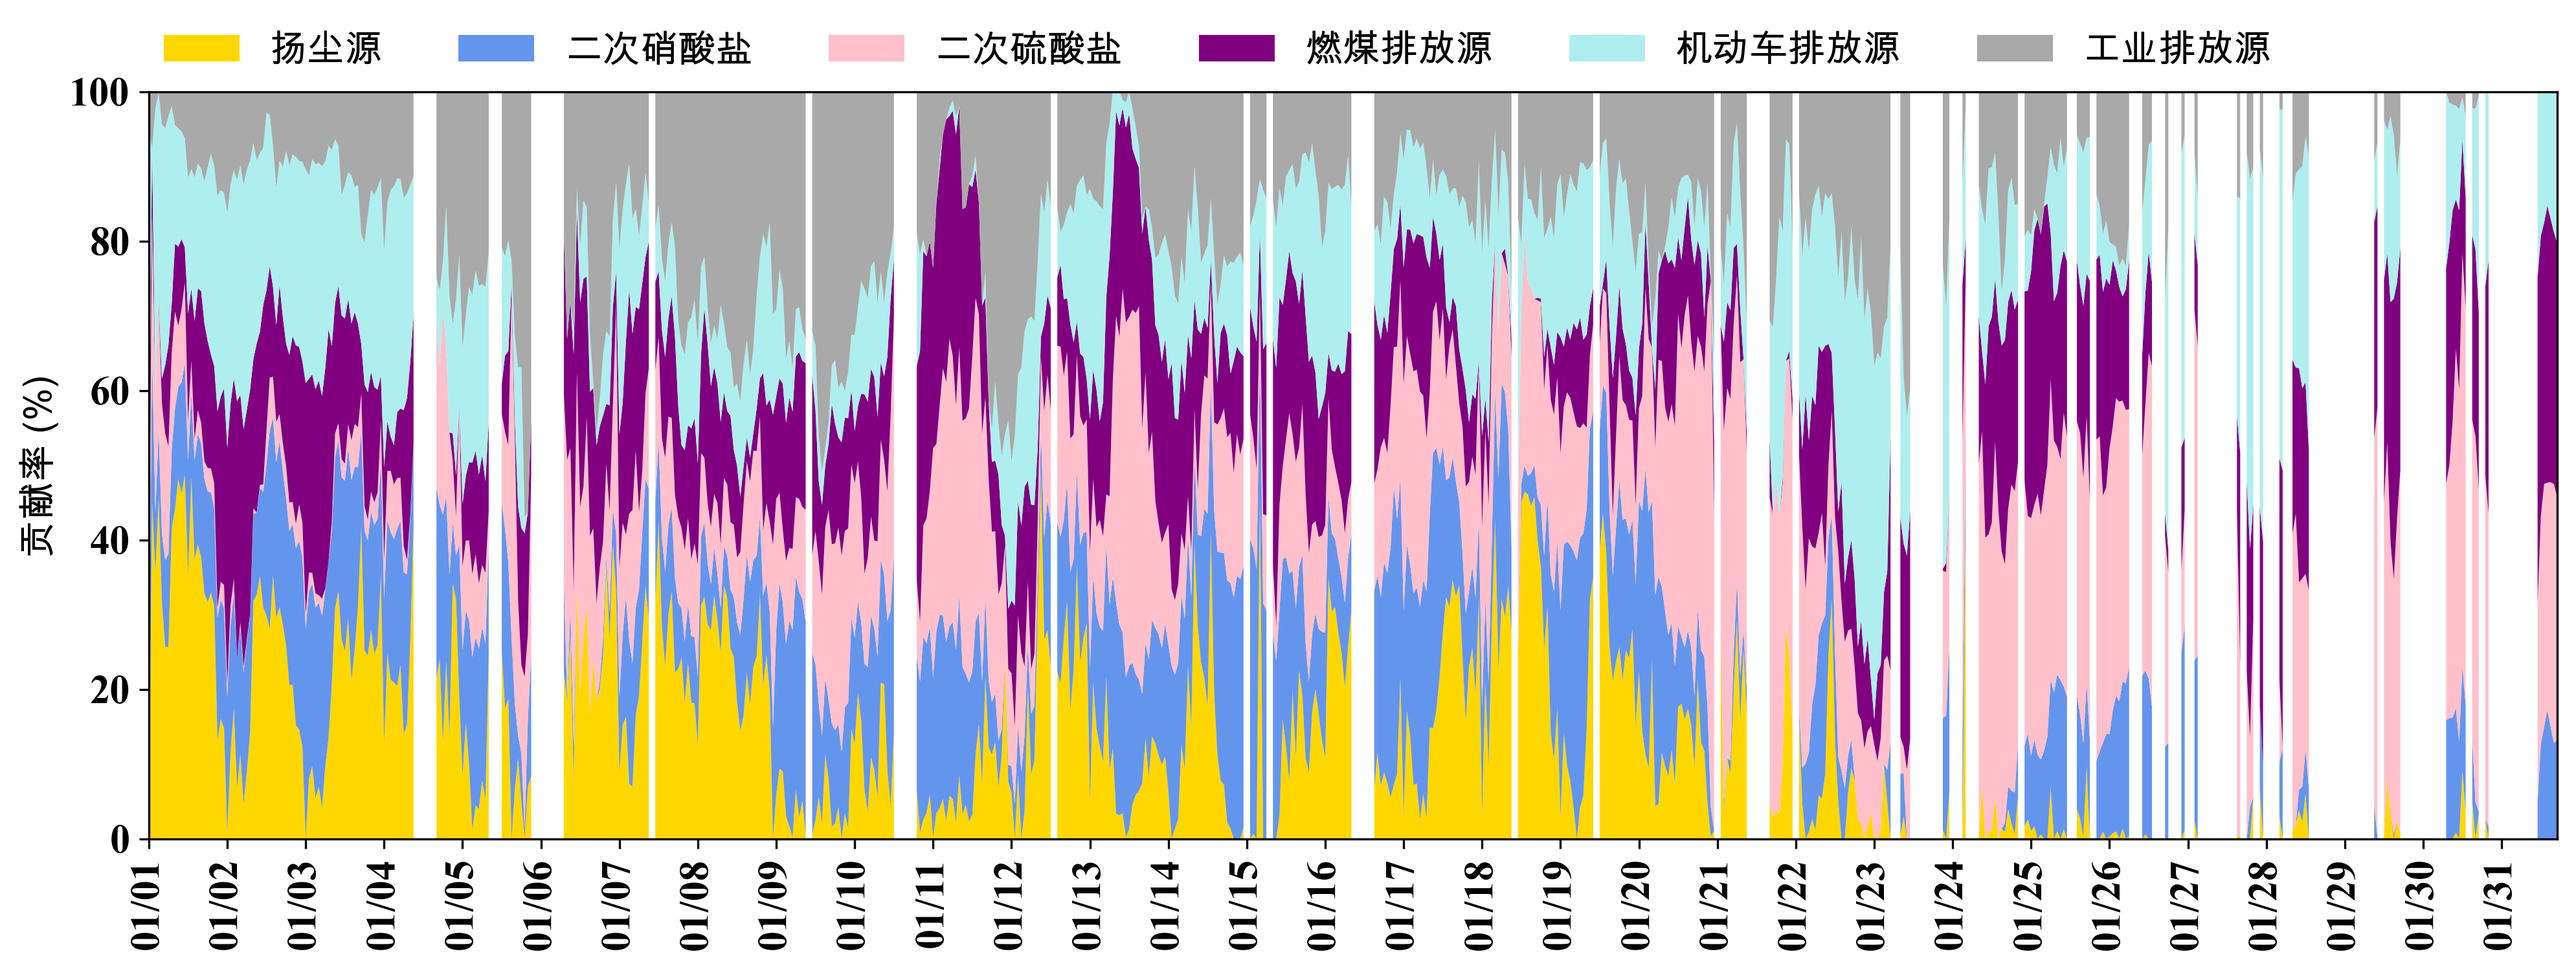
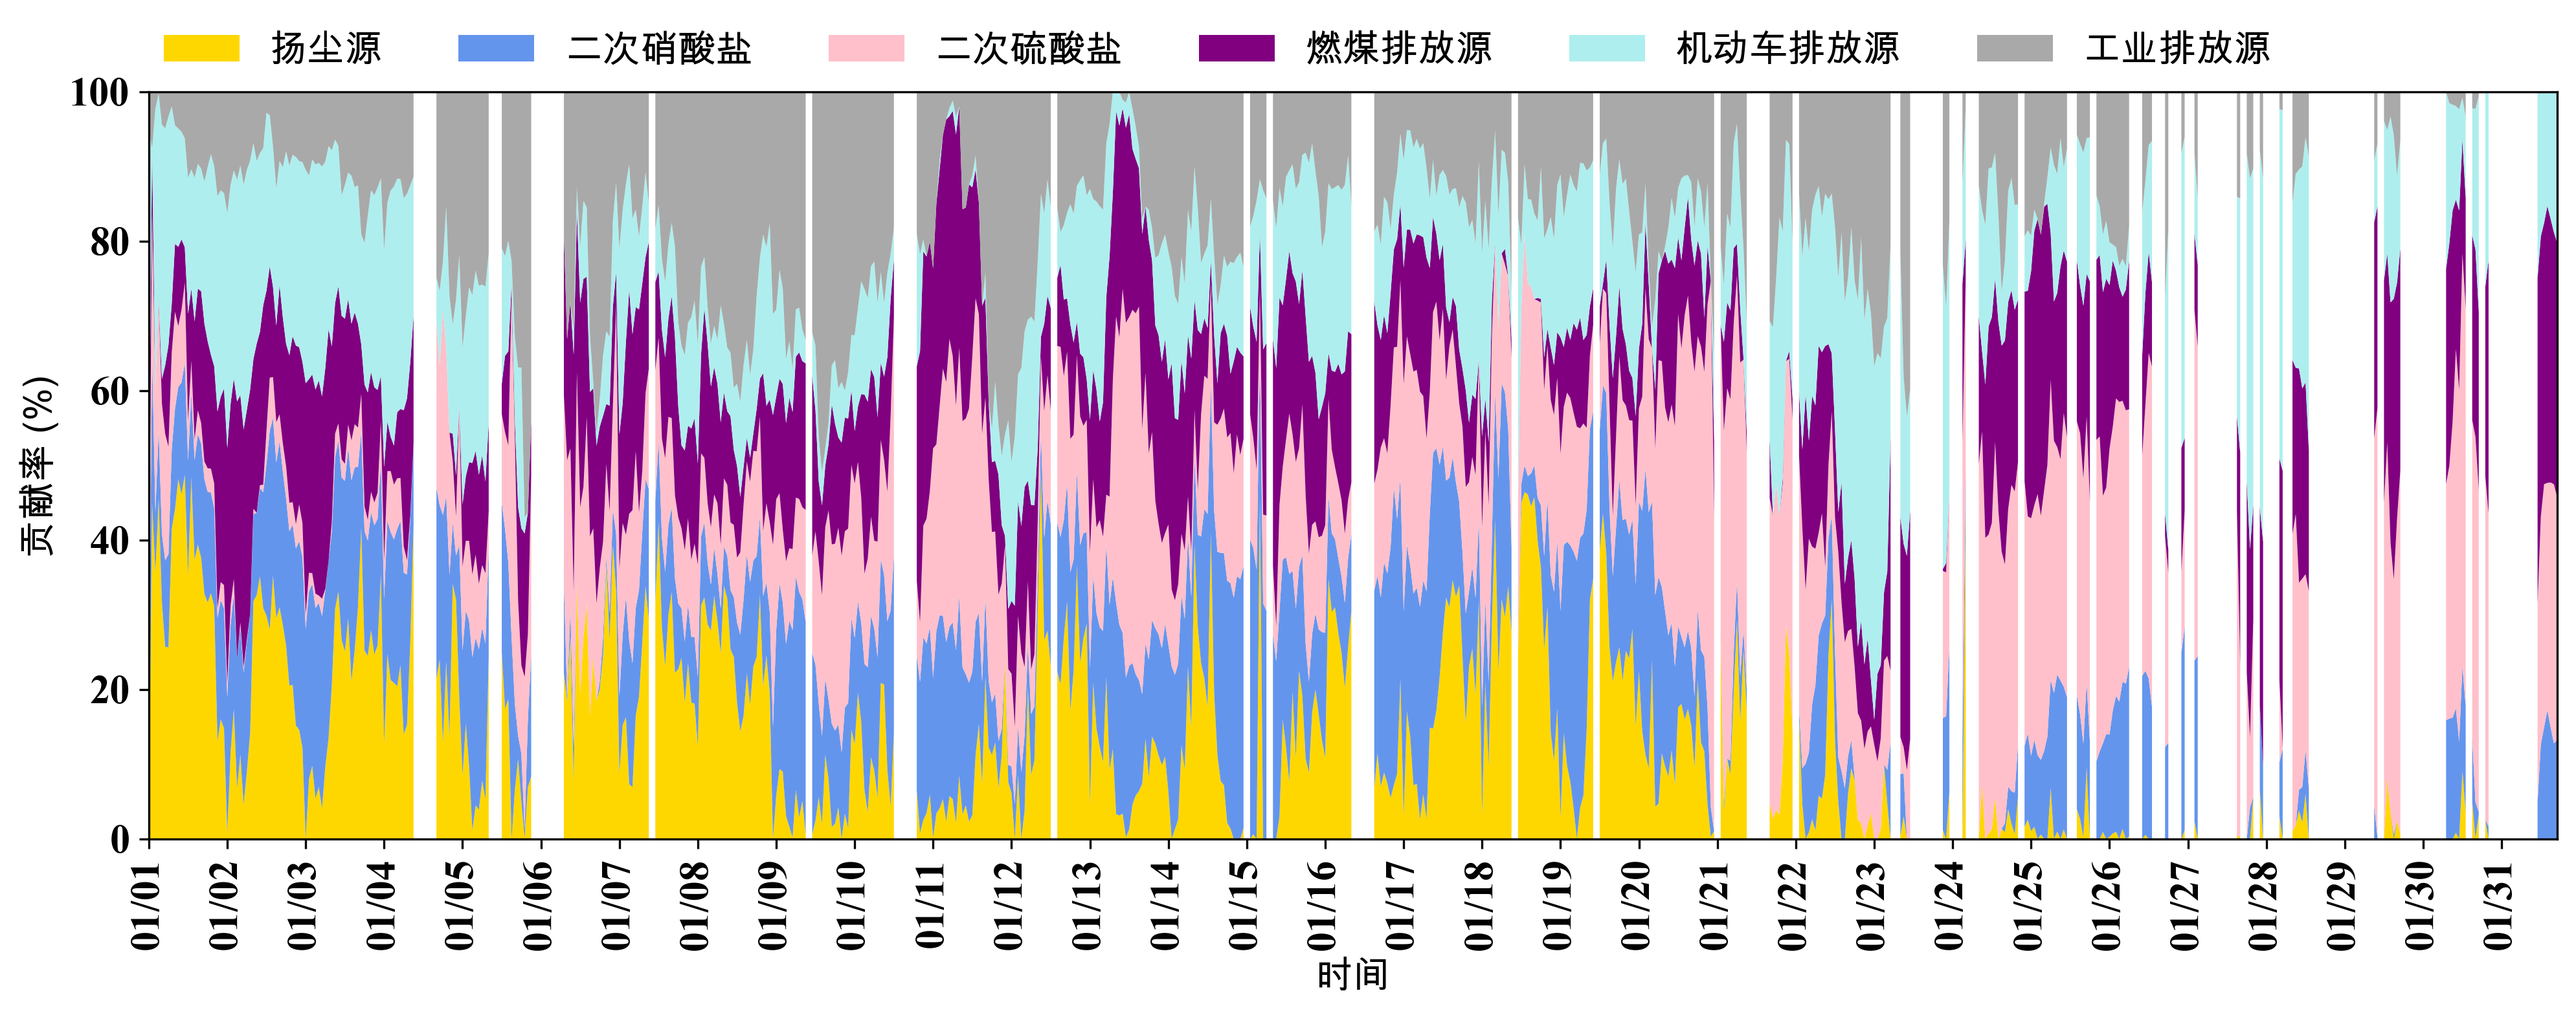
fix: 为堆积图和识别图加上遗漏的 label

diff --git a/cli/draw.py b/cli/draw.py
@@ -93,13 +93,13 @@ def stackedAreaPic(df, saveto='./堆积图.png', dpi=300):
     percent = y / y.sum(axis=0).astype(float) * 100
 
     ax.stackplot(x, percent, colors=colors)
-    # .append(pd.Series([x[::24].iat[-1] + pd.Timedelta(days=1)] ))
     resample = x[::24]
     ax.set_xticks(resample)
     ax.set_xticklabels(resample.apply(lambda date: date.strftime(
         "%m/%d")).values, rotation=90, fontproperties=fonts['en'])
     plt.yticks(fontproperties=fonts['en'])
     plt.ylabel('贡献率 (%)')
+    plt.xlabel('时间')
     plt.margins(0, 0)  # Set margins to avoid "whitespace"
     plt.legend(ylabels, ncol=len(ylabels), loc=(0, 1.01), frameon=False)
     plt.savefig(saveto, dpi=300, bbox_inches='tight')
@@ -112,15 +112,10 @@ def contributionPicWithLegend(df, saveto='./贡献图.png', dpi=300):
     sizes = df.values[0]
     labelsMap = dict(zip(ylabels, sizes))
     sizes = [labelsMap[label] for label in labels]
-    # font dpi
     plt.rcParams['font.size'] = 16
     plt.rcParams['figure.dpi'] = dpi
 
-    # 白色背景
     plt.subplots(figsize=(10, 5), facecolor='white')
-    # fig1.subplots_adjust(0.3, 0, 1, 1)
-    # edgecolor black
-    # font
 
     plt.pie(sizes, labels=['%.1f%%' % labelsMap[label] for label in labels],
             shadow=False, startangle=90, colors=colors,
@@ -133,8 +128,6 @@ def contributionPicWithLegend(df, saveto='./贡献图.png', dpi=300):
         labels=labels,
         prop={'size': 16},
         bbox_to_anchor=(0.8, 0.7),
-        # bbox_transform=fig1.transFigure,
-
     )
 
     plt.axis('equal')
@@ -145,23 +138,21 @@ def contributionPicWithLegend(df, saveto='./贡献图.png', dpi=300):
 def analysisPic(df, whichleft=[], saveto='./识别图.png', dpi=300):
     whichleft = set(whichleft)
     fonts = displayUnicode()
-    # font dpi
     plt.rcParams['font.size'] = 15
     plt.rcParams['figure.dpi'] = dpi
     plt.figure(figsize=(10, 15), facecolor='white')
-
-    # 坐标轴 font
 
     xlabels = df[df.keys()[0]]
     picCount = len(df.keys()) - 1
     width = 0.4
     for i, ylabels in enumerate(labels):
         plt.subplot(picCount, 1, i + 1)
-        # random color
+        if i == 3:
+            plt.ylabel('% of Species',
+                       fontproperties=fonts['en'], fontsize=25, labelpad=10,)
         if i == picCount - 1:
             plt.bar(xlabels, height=df[ylabels], width=width,
                     color=colorsMap[ylabels], edgecolor='#000000',)
-           # label 旋转 45
             plt.xticks(xlabels, rotation=60, fontproperties=fonts['en'])
             plt.ylim(0, 100)
             plt.yticks(fontproperties=fonts['en'])
@@ -174,6 +165,7 @@ def analysisPic(df, whichleft=[], saveto='./识别图.png', dpi=300):
             plt.legend((ylabels,), loc='upper left', frameon=False)
         else:
             plt.legend((ylabels,), loc='upper right', frameon=False)
+
     plt.savefig(saveto, dpi=300, bbox_inches='tight')
     plt.show()
 
